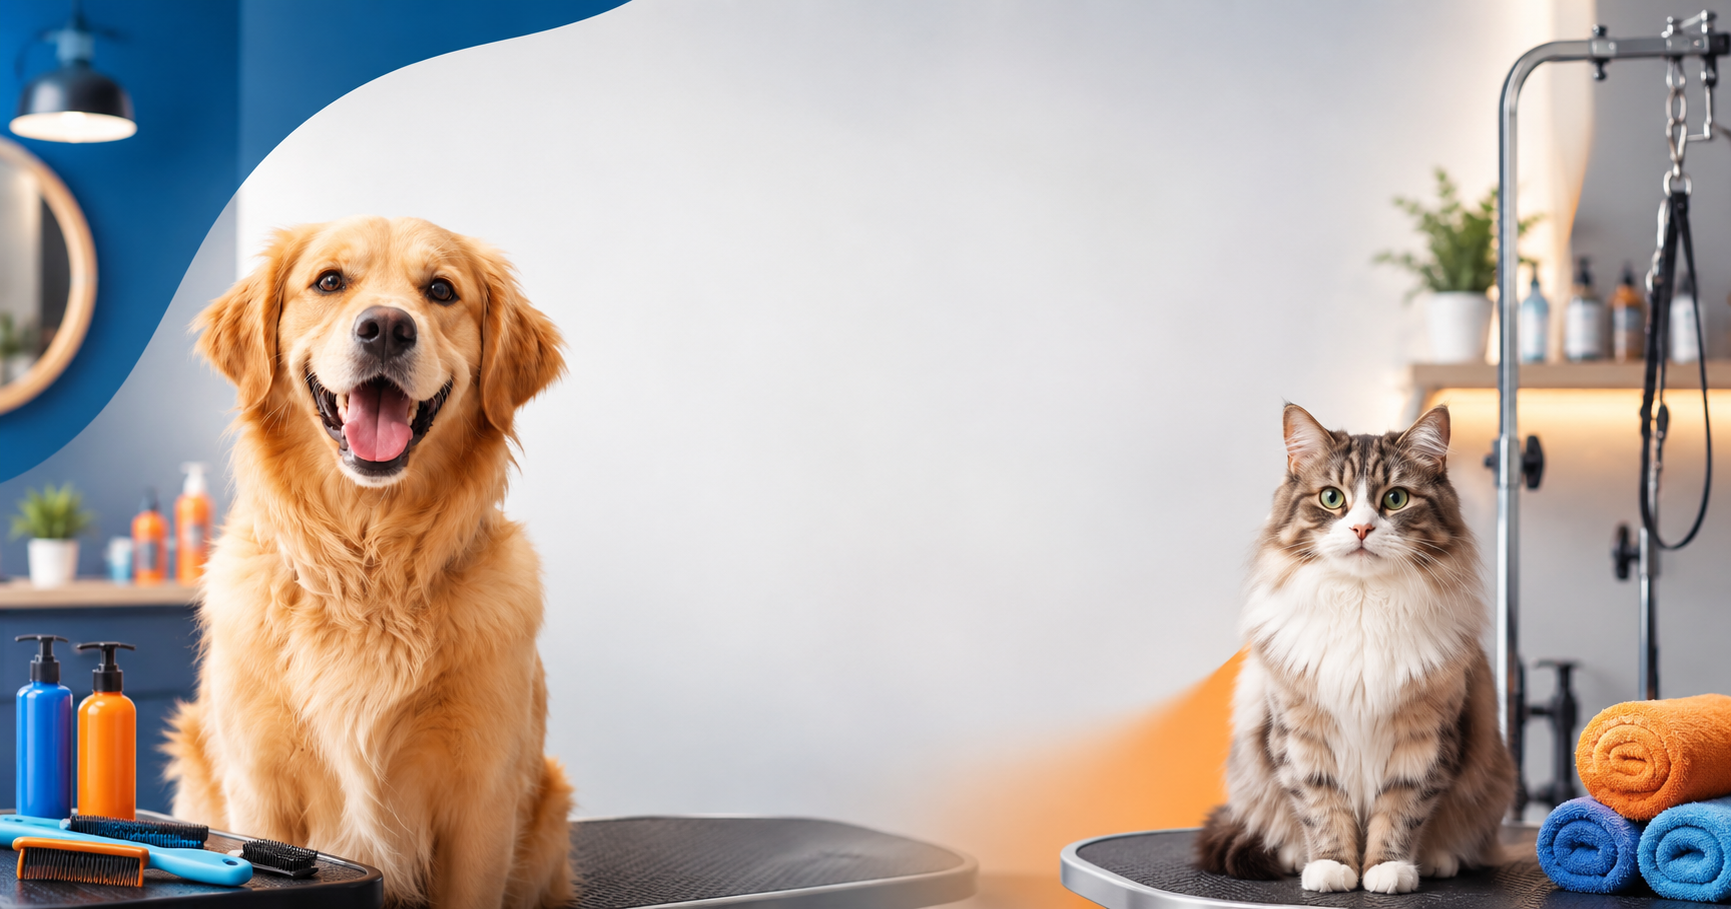
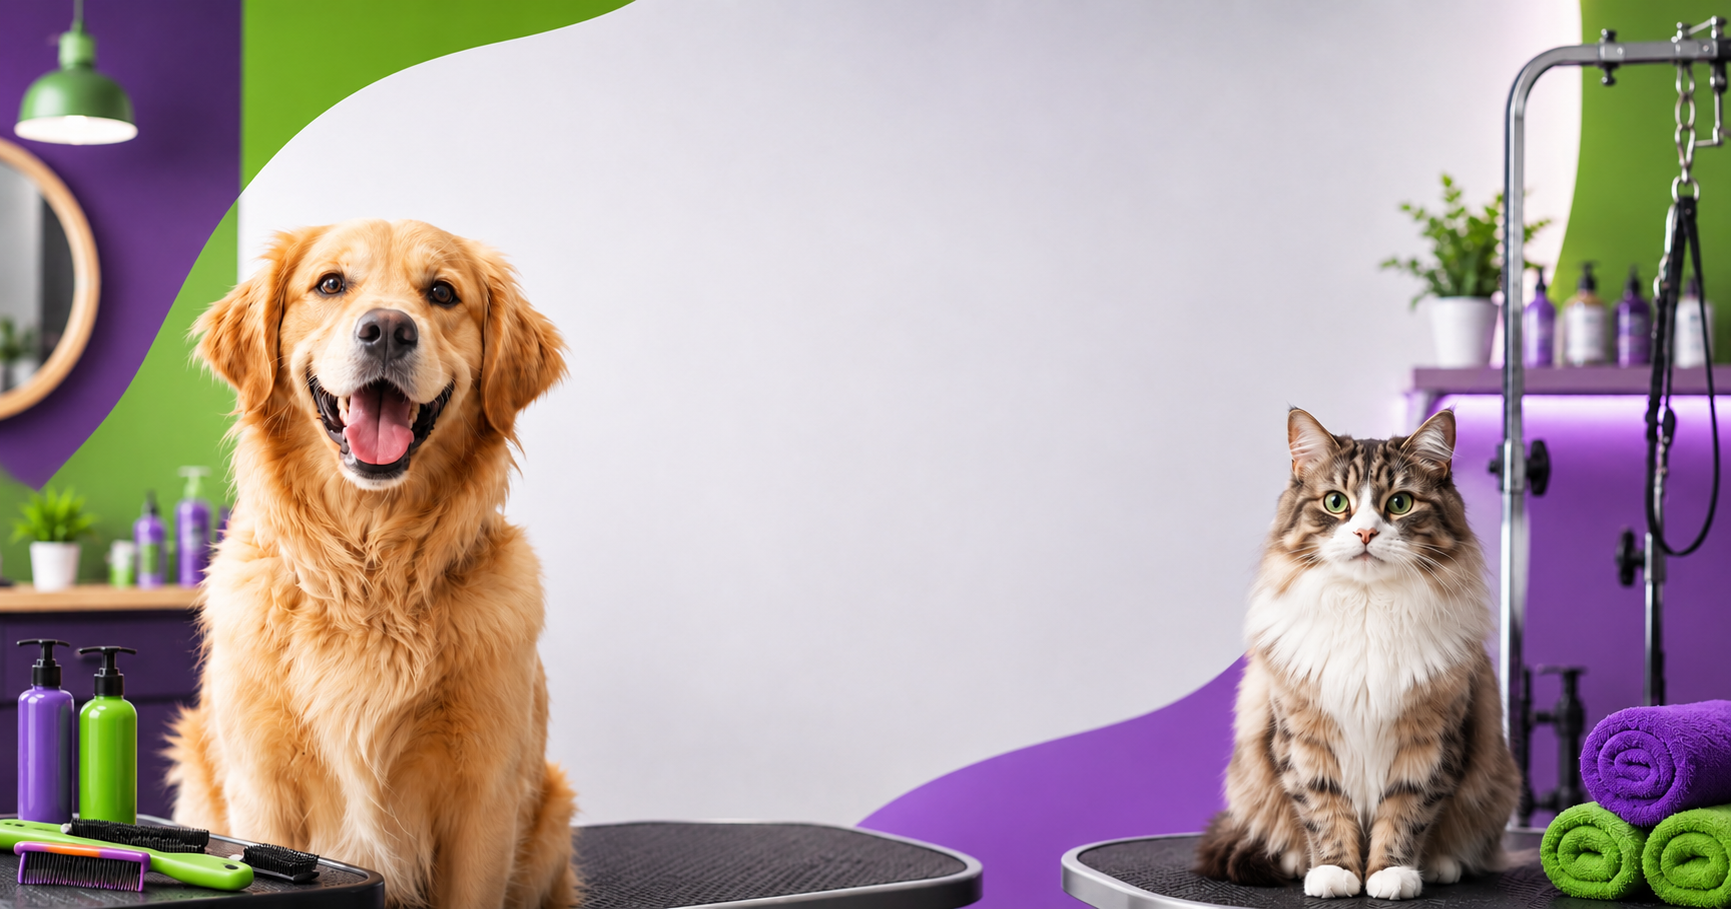
petshop - Amigo Fiel

diff --git a/css/style.css b/css/style.css
@@ -1,6 +1,6 @@
 :root {
-  --primaria: #0ea5e9;
-  --secundaria: #f97316;
+  --primaria: #6c4087;
+  --secundaria: #6d9d1d;
   --escuro: #0f172a;
   --claro: white;
   --texto: #334155;
@@ -41,9 +41,6 @@ header {
   backdrop-filter: blur(20px);
   -webkit-backdrop-filter: blur(20px);
   box-shadow: 0 2px 20px rgba(0, 0, 0, 0.8);
-}
-
-.logo {
 }
 
 nav {
@@ -121,6 +118,7 @@ nav a:hover {
 /* CONTAINER */
 .container {
   padding: 90px 8%;
+
 }
 
 .container h2 {
@@ -133,9 +131,10 @@ nav a:hover {
 /* CARDS */
 .cards {
   display: flex;
-  justify-content: space-evenly;
+  justify-content: space-between;
   flex-wrap: wrap;
   gap: 30px;
+  
 }
 
 .card {
@@ -147,6 +146,7 @@ nav a:hover {
   -webkit-backdrop-filter: blur(20px);
   transform: 0.4s;
   transition: 0.5s;
+
 }
 
 .card:hover {
@@ -170,6 +170,47 @@ nav a:hover {
   color: var(--escuro);
 }
 
+/* produtos*/
+.cardsP {
+  display: flex;
+  justify-content: space-evenly;
+  flex-wrap: wrap;
+  gap: 30px;
+  
+}
+
+.cardP {
+  background: rgba(255, 255, 255, 0.8);
+  border-radius: var(--radius);
+  box-shadow: var(--sombra);
+  overflow: hidden;
+  backdrop-filter: blur(20px);
+  -webkit-backdrop-filter: blur(20px);
+  transform: 0.4s;
+  transition: 0.5s;
+
+}
+
+.cardP:hover {
+  transform: translateY(-12px);
+}
+
+.cardP img {
+  width: 100%;
+  height: 250px;
+  object-fit: cover;
+}
+
+.cardP h3 {
+  padding: 20px 20px 10px;
+  color: var(--primaria);
+  font-size: 1.1rem;
+}
+
+.cardP p {
+  padding: 0 20px 25px;
+  color: var(--escuro);
+}
 /* GALERIA */
 .galeria {
   display: flex;
@@ -189,6 +230,8 @@ nav a:hover {
 .galeria img:hover {
   transform: scale(1.05);
 }
+
+
 
 /* FORM */
 form {
@@ -291,4 +334,8 @@ iframe {
   .galeria img {
     height: 250px;
   }
+}
+footer a{
+  color: white;
+  text-decoration: none;
 }

diff --git a/index.html b/index.html
@@ -18,7 +18,7 @@
   <!-- HEADER -->
   <header>
     <div class="logo">
-      <img src="img/logo-transparente.png" alt="logo" width="100" />
+      <img src="img/planet pet.png" alt="logo" width="100" />
     </div>
 
     <button id="menu-btn"> ☰ </button>
@@ -27,6 +27,7 @@
       <a href="#servicos"> Serviços </a>
       <a href="#galeria"> Galeria </a>
       <a href="#contato"> Contato </a>
+      <a href="#produtos"> Produtos </a>
       <a href="#localizacao"> Localização </a>
     </nav>
   </header>
@@ -88,6 +89,49 @@
     </form>
   </section>
 
+  <!-- PRODUTOS -->
+  <section id="produtos" class="container">
+    <h2>Nossos Produtos</h2>
+
+    <div class="cardsP">
+      <div class="cardP">
+        <img src="img/9dfc1677-e67b-48b5-9f04-e561af49615f.png" alt="Shampoo Pet Clean 5 em 1">
+        <h3>Shampoo Pet Clean 5 em 1</h3>
+        <p>Limpeza profunda e perfume duradouro para cães e gatos, deixando os pelos macios e brilhantes.</p>
+      </div>
+
+      <div class="cardP">
+        <img src="img/racao.png" alt="Ração Special Dog Carne Adultos">
+        <h3>Ração Special Dog Carne Adultos </h3>
+        <p>Nutrição completa e sabor irresistível para manter seu cão saudável e cheio de energia.</p>
+      </div>
+
+      <div class="cardP">
+        <img src="img/brinquedo.jpeg" alt="Brinquedo Mordedor Jacaré">
+        <h3>Brinquedo Mordedor Jacaré</h3>
+        <p>Diversão garantida para seu pet com um brinquedo resistente e ideal para aliviar o estresse.</p>
+      </div>
+
+      <div class="cardP">
+        <img src="img/tapete.png" alt="Tapete Higiênico 50 Unidades">
+        <h3>Tapete Higiênico 50 Unidades</h3>
+        <p>Alta absorção e proteção contra odores para manter sua casa sempre limpa.</p>
+      </div>
+
+      <div class="cardP">
+        <img src="img/colera.png" alt="Coleira Antipulgas Dugs">
+        <h3>Coleira Antipulgas Dugs</h3>
+        <p>Proteção prática e eficiente contra pulgas e carrapatos por muito mais tempo.</p>
+      </div>
+
+      <div class="cardP">
+        <img src="img/roupinha.png" alt="Roupinhas Confort Pet">
+        <h3>Roupinhas Confort Pet</h3>
+        <p>Estilo e conforto para seu pet em todas as estações, com tecidos macios e modelos encantadores.</p>
+      </div>
+    </div>
+  </section>
+
   <!-- MAPA -->
   <section id="localizacao" class="container">
     <h2> Localização </h2>
@@ -100,7 +144,10 @@
   <!-- FOOTER -->
   <footer>
     <p>&copy; 2026 PetShop Amigo Fiel. Todos os direitos.</p>
-    <p>Instagram | Whatsapp | Facebook</p>
+
+    <a href="https://web.whatsapp.com/">Whatsapp | </a>
+    <a href="https://www.instagram.com/">Instagram | </a>
+    <a href="https://www.facebook.com/">Facebook</a>
   </footer>
 
   <script src="js/script.js"></script>